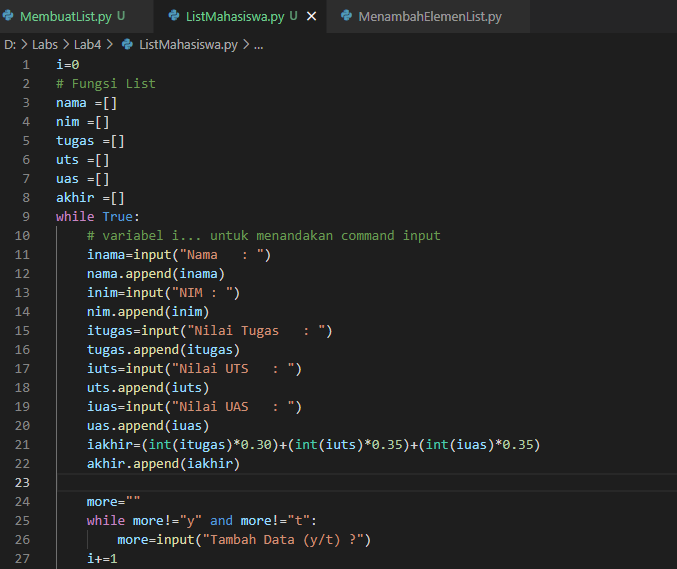
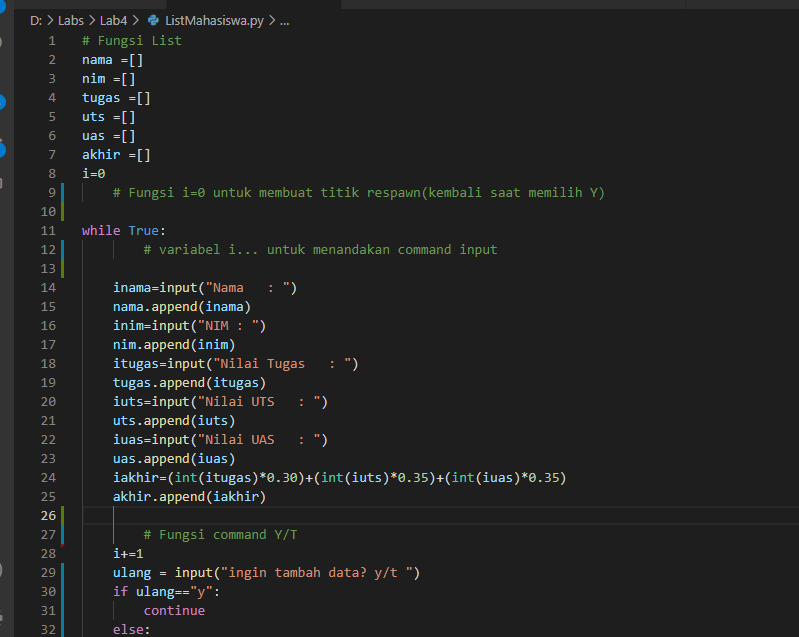
menambahkan file

diff --git a/ListMahasiswa.py b/ListMahasiswa.py
@@ -6,9 +6,11 @@ uts =[]
 uas =[]
 akhir =[]
 i=0
-# Fungsi i=0 untuk membuat titik respawn(kembali saat memilih Y)
+    # Fungsi i=0 untuk membuat titik respawn(kembali saat memilih Y)
+
 while True:
-    # variabel i... untuk menandakan command input
+        # variabel i... untuk menandakan command input
+
     inama=input("Nama   : ")
     nama.append(inama)
     inim=input("NIM : ")
@@ -21,19 +23,22 @@ while True:
     uas.append(iuas)
     iakhir=(int(itugas)*0.30)+(int(iuts)*0.35)+(int(iuas)*0.35)
     akhir.append(iakhir)
-    # Fungsi command Y/T
-    more=""
-    while more!="y" and more!="t":
-        more=input("Tambah Data (y/t) ?")
+
+        # Fungsi command Y/T
     i+=1
-    if more=="t":
+    ulang = input("ingin tambah data? y/t ")
+    if ulang=="y":
+        continue
+    else:
+        print("\n")
         break
-    
-    # Membuat bentuk border di hasil program
+        
+        # Membuat bentuk border di hasil program
+print("|------------------------------------------------------------------------------------------------|")
 print("|                                        Daftar Mahasiswa                                        |")
 print("|  No   |   Nama   |    NIM    |      TUGAS     |      UTS      |      UAS      |     Akhir      |")
 print("|------------------------------------------------------------------------------------------------|")
 for n in range(i):
     print("| ",n+1,"   |  ",nama[n],"  |  ",nim[n],"    |      ",tugas[n],"      |      ",uts[n],"     |     ",uas[n],"      |    "
     ,akhir[n],"      |")
-print("|------------------------------------------------------------------------------------------------|")
+    print("|------------------------------------------------------------------------------------------------|")

diff --git a/README.md b/README.md
@@ -22,7 +22,7 @@ Input Nama, Nim, Nilai Tugas, UAS, UTS Dan program akan menghitung Nilai Akhir d
 #### Berikut Bentuk Flowchartnya
 ![Gambar](Foto/FlowChart.png)
 #### Berikut Bentuk Programnya dan ada beberapa keterangan di program
-![Gambar](Foto/ss6.png)
-![Gambar](Foto/ss7.png)
+![Gambar](Foto/ss3.png)
+![Gambar](Foto/ss4.png)
 #### Berikut Bentuk Hasil dari Program
 ![Gambar](Foto/ss5.png)
